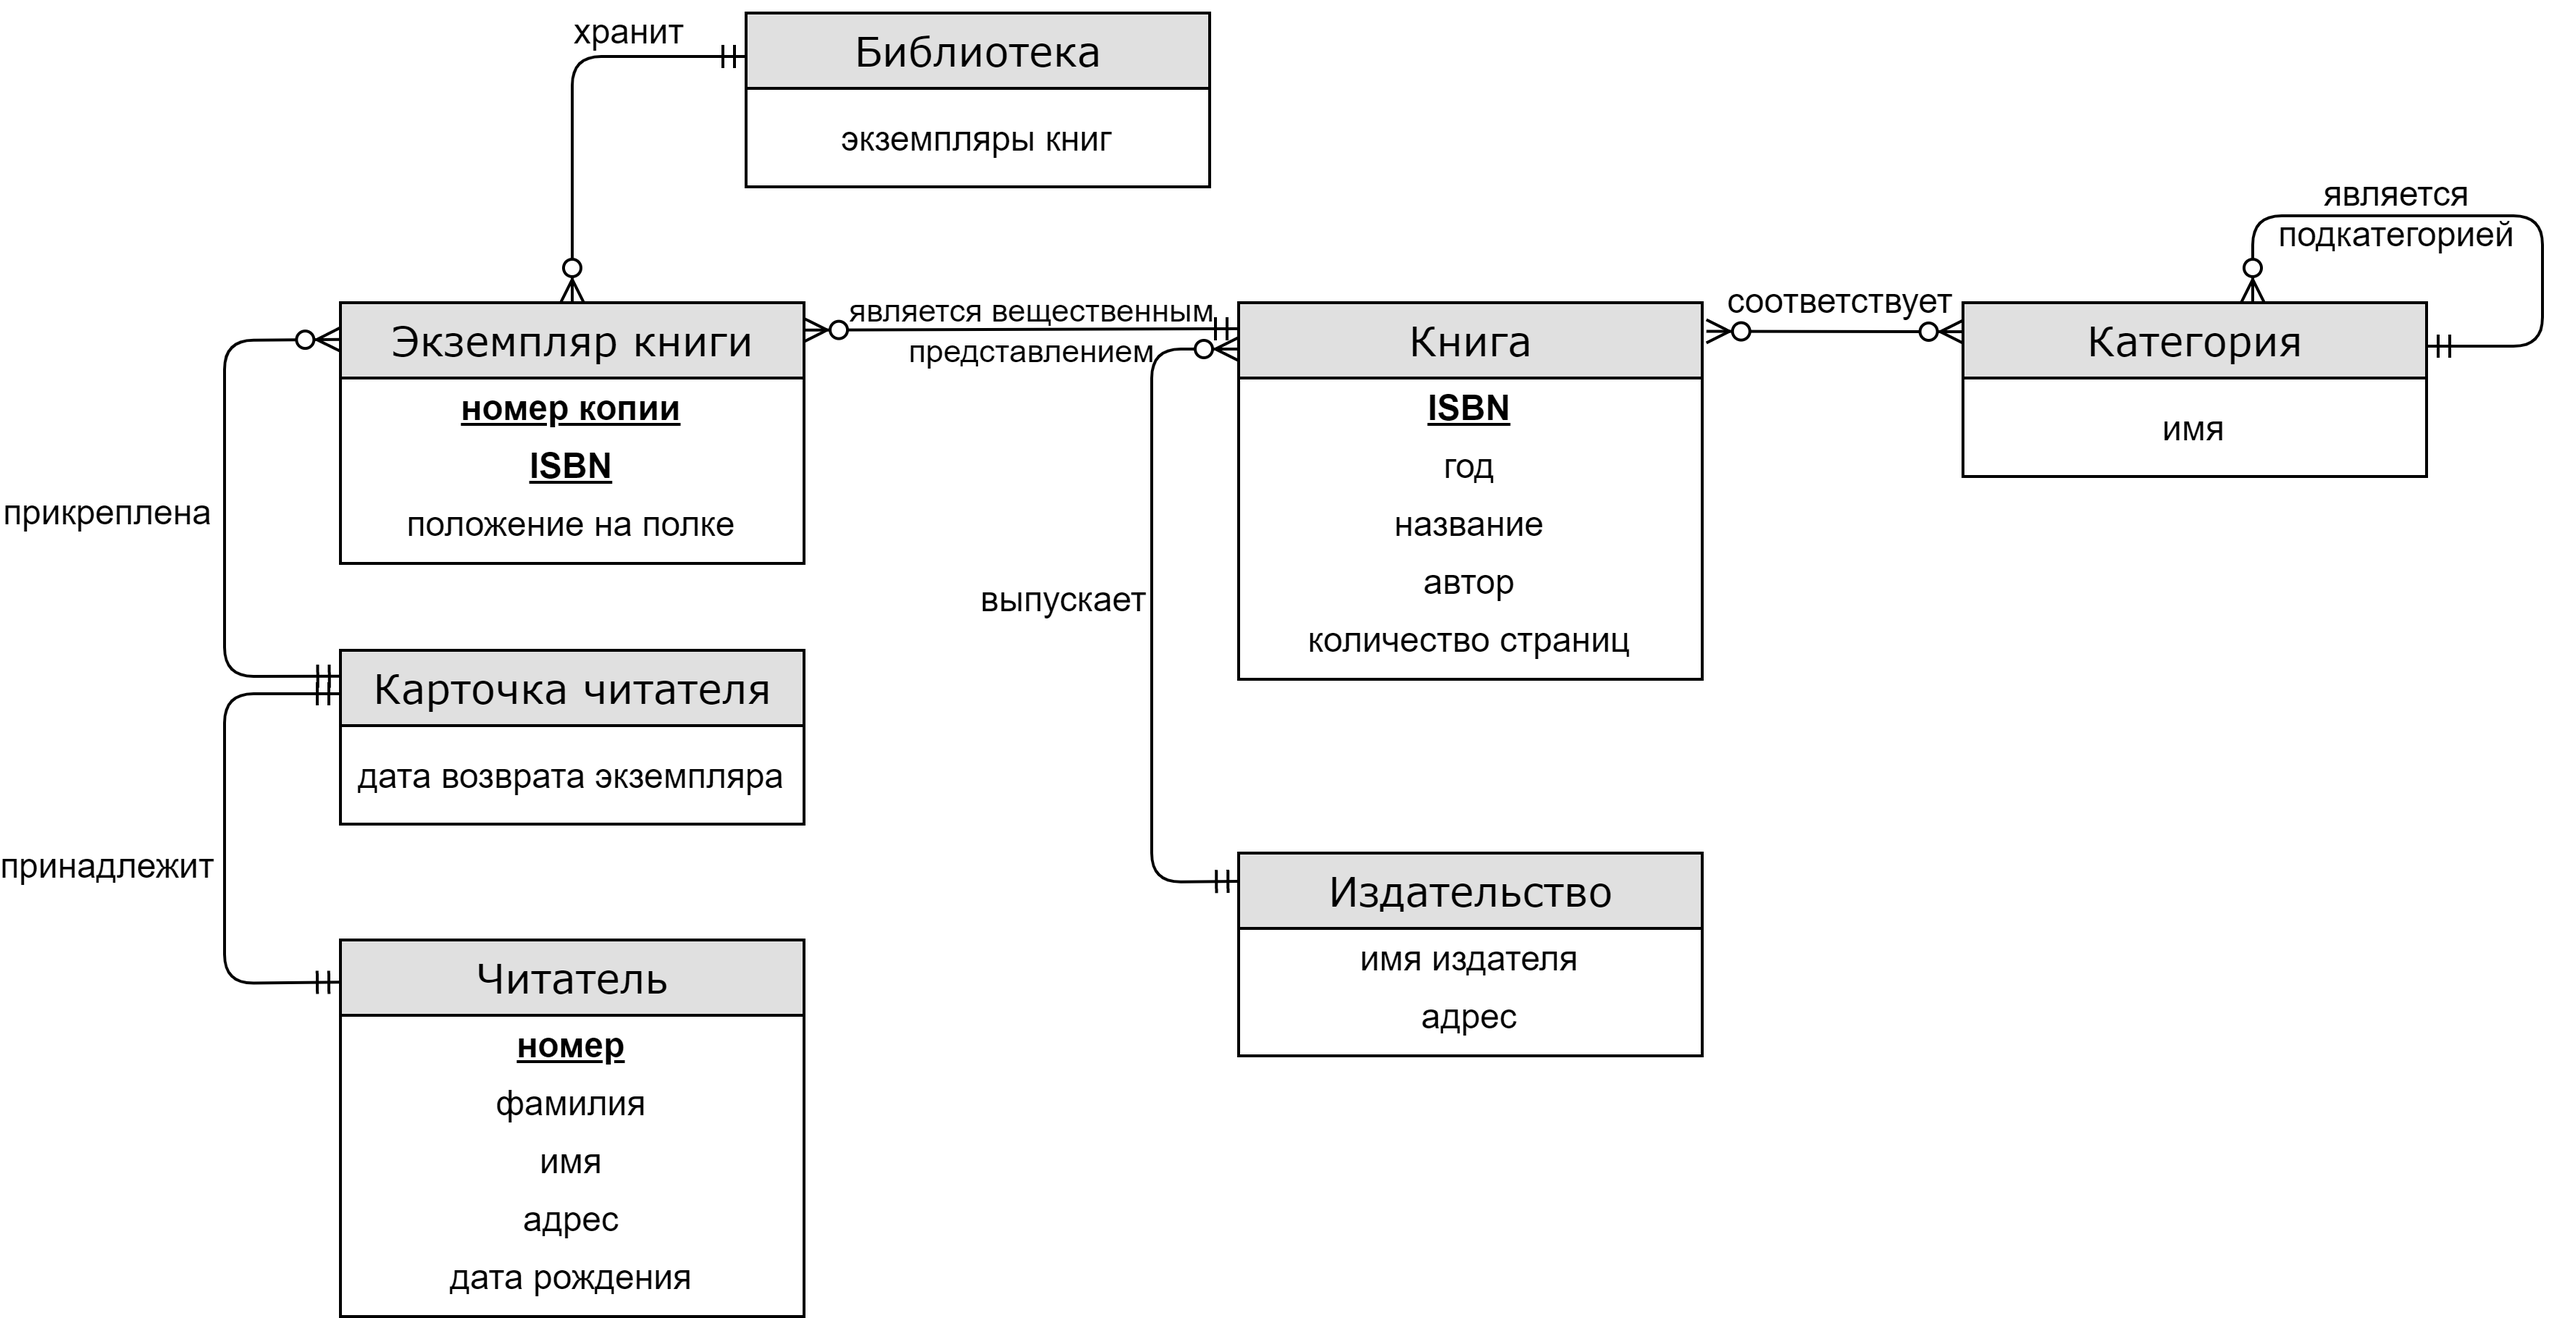
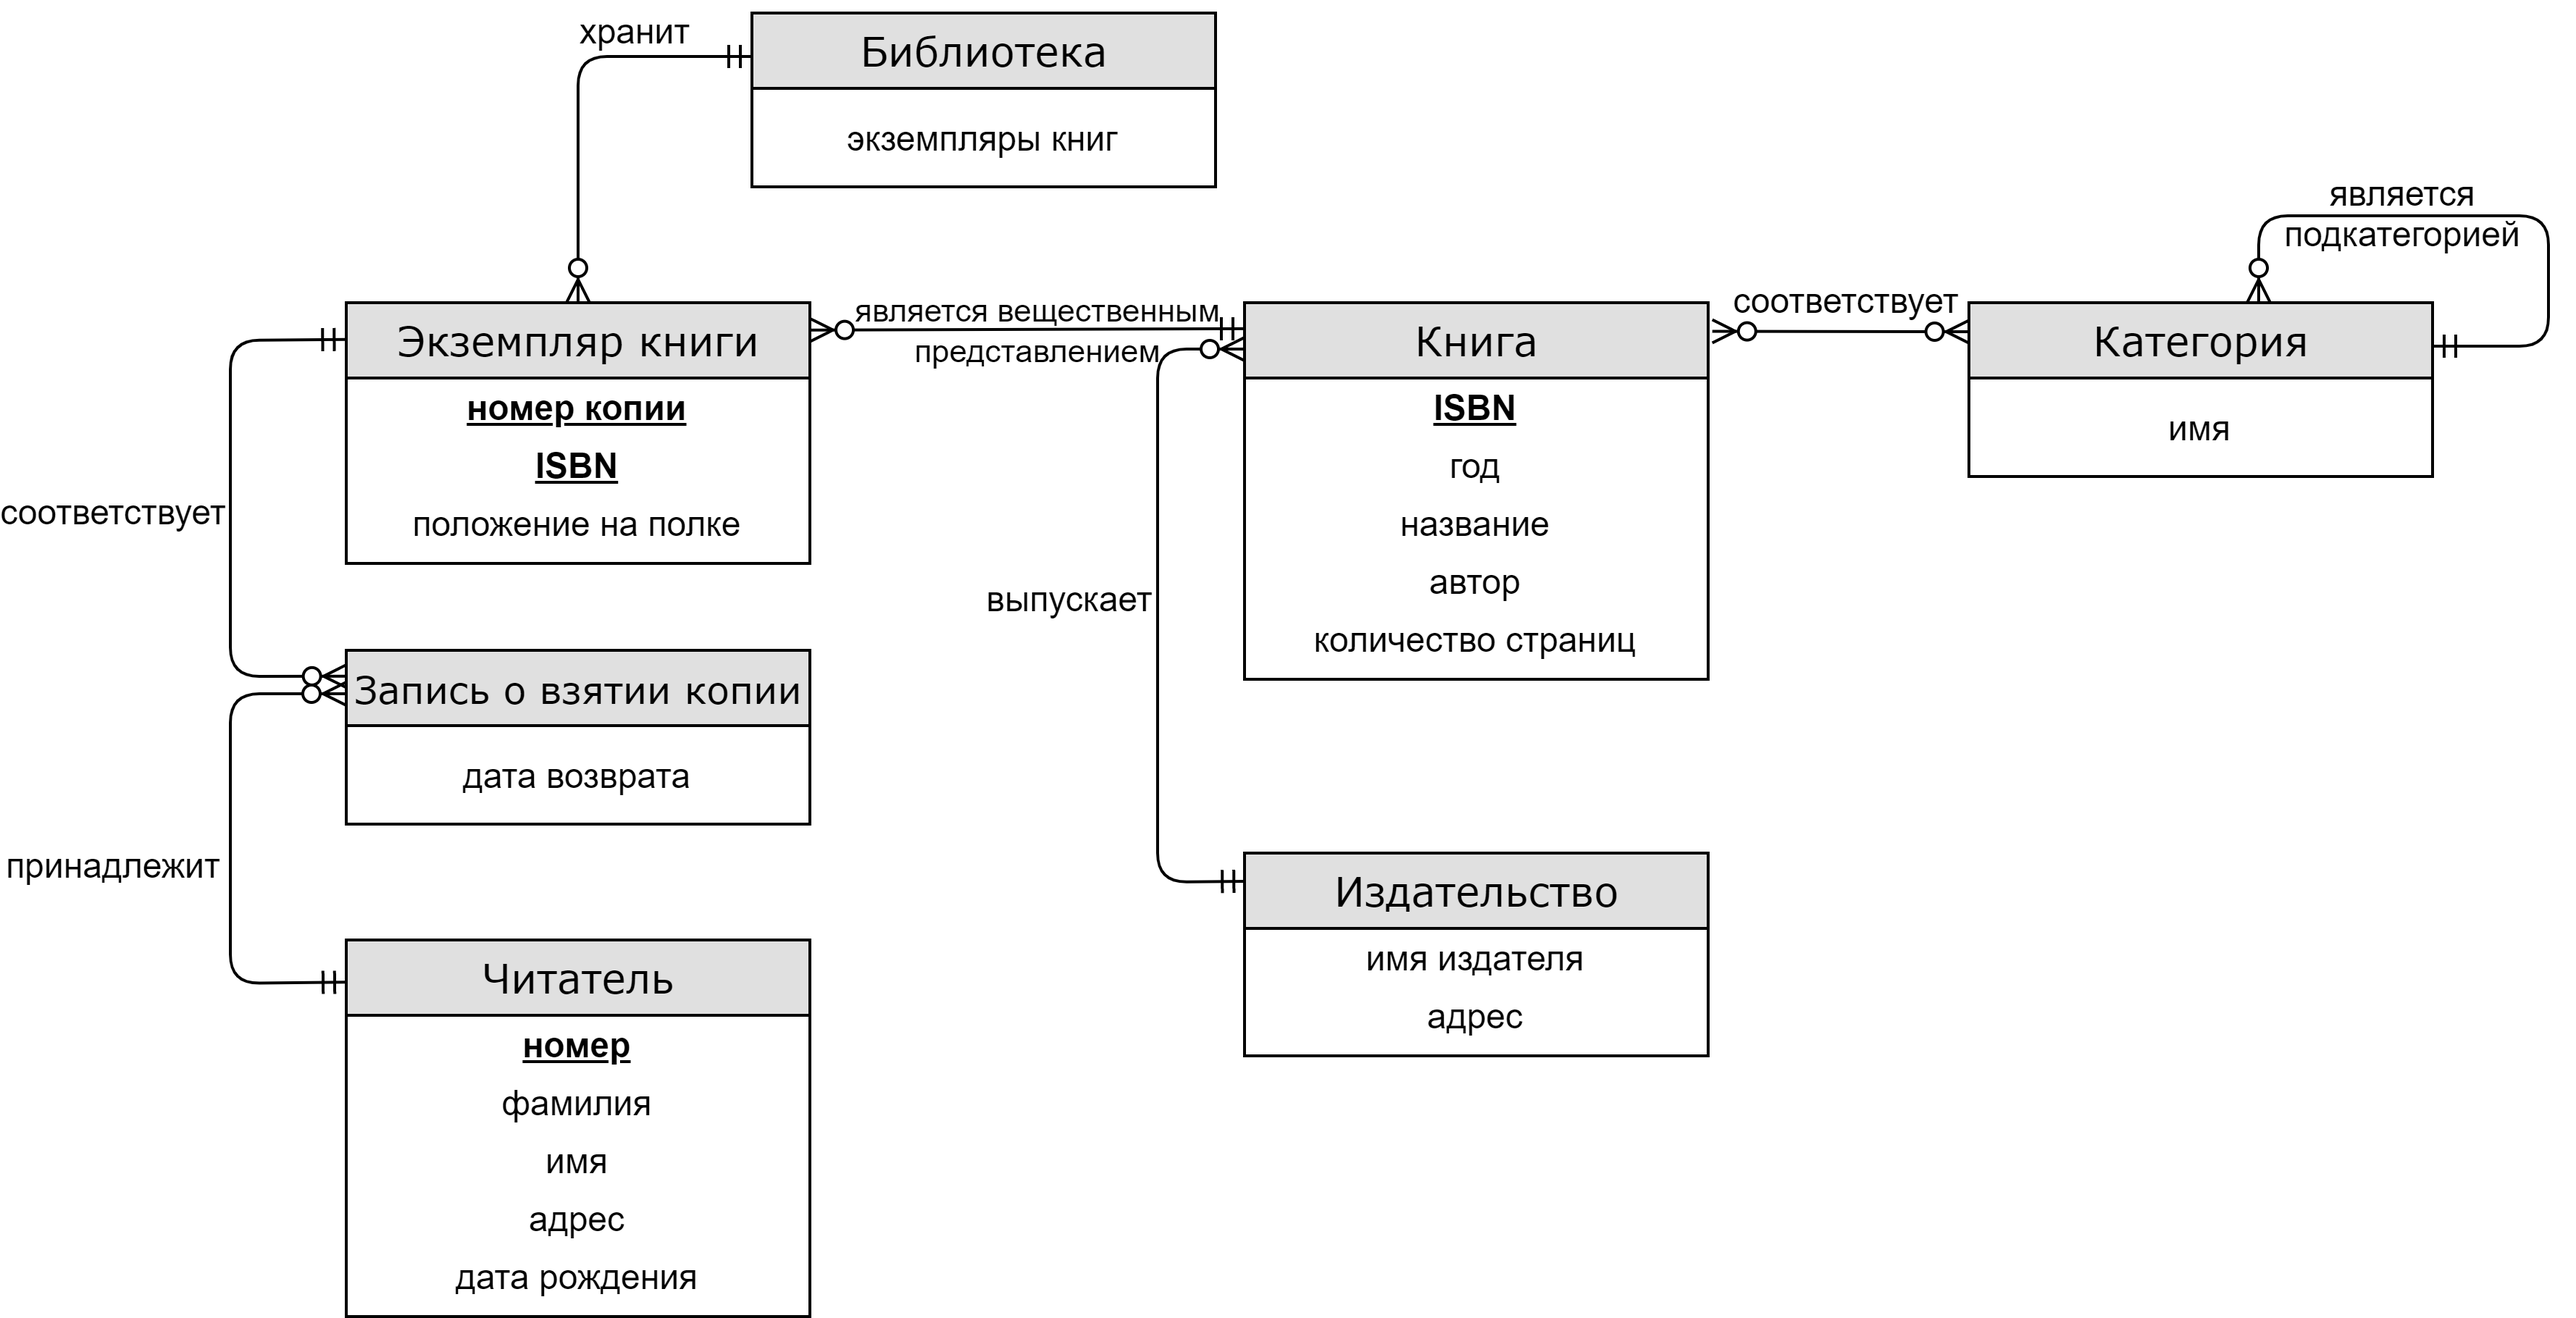
Исправлено после семинара

diff --git a/Practice 2/Golikova/task2.md b/Practice 2/Golikova/task2.md
@@ -1,6 +1,8 @@
 ### Задание 2. Екатерина Голикова, БПИ197
 
 #### Задача 1
+По сравнению с образцом, оставила тут сущность библиотеки (мне показалось, она не будет лишней)
+
 ![](part_1.png)
 
 #### Задача 2
